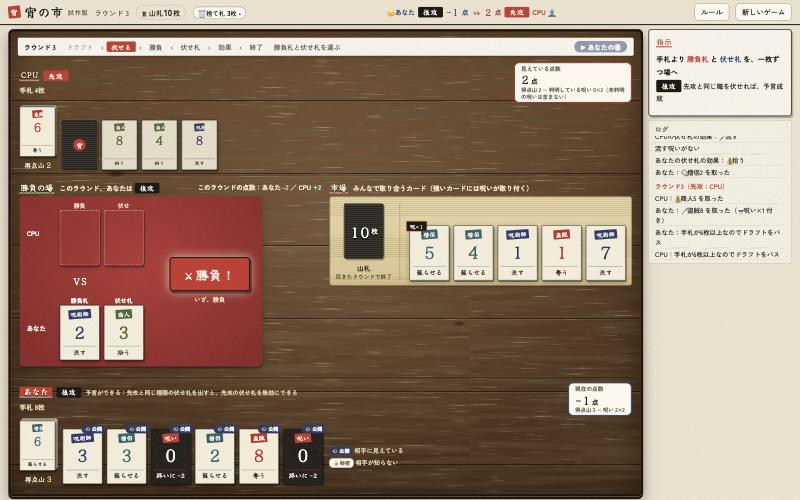
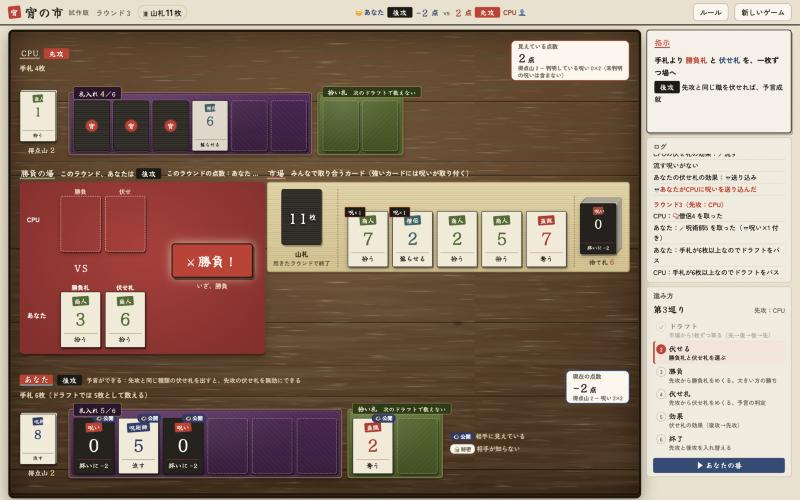
呪い市を更新（1stDCG 515f486）

diff --git a/index.html b/index.html
@@ -1178,22 +1178,24 @@ details.fold .quick-title, details.fold .rl-h3 { display: none; }
 <template id="screenGuide">
   <div class="screen-guide">
     <div class="sg-shots">
-      <figure class="sg-shot"><div class="sg-img"><img src="guide-pc.jpg" alt="PCで遊んでいるときの画面" loading="lazy"><span class="sg-mark" style="left:11.5%;top:0.5%">1</span><span class="sg-mark" style="left:48%;top:0.5%">2</span><span class="sg-mark" style="left:2.5%;top:7.5%">3</span><span class="sg-mark" style="left:2.5%;top:12%">4</span><span class="sg-mark" style="left:41%;top:36.5%">5</span><span class="sg-mark" style="left:2.5%;top:39.5%">6</span><span class="sg-mark" style="left:20.5%;top:50%">7</span><span class="sg-mark" style="left:2.5%;top:76%">8</span><span class="sg-mark" style="left:2.5%;top:83.5%">12</span><span class="sg-mark" style="left:81%;top:6%">9</span><span class="sg-mark" style="left:81%;top:24%">10</span><span class="sg-mark" style="left:86.5%;top:0.5%">11</span></div><figcaption>PC の画面</figcaption></figure>
-      <figure class="sg-shot sp"><div class="sg-img"><img src="guide-sp.jpg" alt="スマホで遊んでいるときの画面" loading="lazy"><span class="sg-mark" style="left:9%;top:0.5%">1</span><span class="sg-mark" style="left:38.5%;top:0.5%">2</span><span class="sg-mark" style="left:63%;top:0.5%">10</span><span class="sg-mark" style="left:74%;top:0.5%">11</span><span class="sg-mark" style="left:3.5%;top:6%">3</span><span class="sg-mark" style="left:3.5%;top:10.5%">4</span><span class="sg-mark" style="left:47%;top:27.5%">5</span><span class="sg-mark" style="left:4.5%;top:31%">6</span><span class="sg-mark" style="left:7%;top:62%">7</span><span class="sg-mark" style="left:2%;top:75.5%">8</span><span class="sg-mark" style="left:4.5%;top:81.5%">12</span><span class="sg-mark" style="left:1%;top:92.5%">9</span></div><figcaption>スマホの画面</figcaption></figure>
+      <figure class="sg-shot"><div class="sg-img"><img src="guide-pc.jpg" alt="PCで遊んでいるときの画面" loading="lazy"><span class="sg-mark" style="left:11.5%;top:0.5%">1</span><span class="sg-mark" style="left:44%;top:0.5%">2</span><span class="sg-mark" style="left:86.5%;top:0.5%">11</span><span class="sg-mark" style="left:2.2%;top:7.5%">4</span><span class="sg-mark" style="left:33%;top:33%">5</span><span class="sg-mark" style="left:71.5%;top:39%">13</span><span class="sg-mark" style="left:2.5%;top:36.5%">6</span><span class="sg-mark" style="left:21%;top:47%">7</span><span class="sg-mark" style="left:2.2%;top:80.5%">12</span><span class="sg-mark" style="left:8.6%;top:81.5%">8</span><span class="sg-mark" style="left:43.4%;top:81.5%">14</span><span class="sg-mark" style="left:81%;top:6%">9</span><span class="sg-mark" style="left:81%;top:27.5%">10</span><span class="sg-mark" style="left:81%;top:57.5%">3</span></div><figcaption>PC の画面</figcaption></figure>
+      <figure class="sg-shot sp"><div class="sg-img"><img src="guide-sp.jpg" alt="スマホで遊んでいるときの画面" loading="lazy"><span class="sg-mark" style="left:9%;top:0.5%">1</span><span class="sg-mark" style="left:32.5%;top:0.5%">2</span><span class="sg-mark" style="left:63%;top:0.5%">10</span><span class="sg-mark" style="left:73%;top:0.5%">11</span><span class="sg-mark" style="left:3.5%;top:6.8%">3</span><span class="sg-mark" style="left:3.5%;top:11%">4</span><span class="sg-mark" style="left:46.7%;top:29.6%">5</span><span class="sg-mark" style="left:49%;top:56%">13</span><span class="sg-mark" style="left:4.8%;top:33.4%">6</span><span class="sg-mark" style="left:7%;top:64.4%">7</span><span class="sg-mark" style="left:4.5%;top:79.6%">12</span><span class="sg-mark" style="left:20.8%;top:76.8%">8</span><span class="sg-mark" style="left:1%;top:92%">9</span></div><figcaption>スマホの画面</figcaption></figure>
     </div>
     <ol class="sg-list">
-      <li><b>ラウンド・山札・捨て札</b>：今のラウンドと山札の残り（山札が尽きたラウンドで終わり）。捨て札は押すと中身が見られる</li>
+      <li><b>ラウンド・山札</b>：今のラウンドと山札の残り（山札が尽きたラウンドで終わり）</li>
       <li><b>点数</b>：あなたと相手の点数（相手は、見えている分だけで計算）</li>
-      <li><b>場面の表示</b>：今の場面（ドラフト → 伏せる → 勝負 → 伏せ札 → 効果）と、だれの番か</li>
-      <li><b>相手</b>：相手の手札（裏向きの札と、相手に知られている札）</li>
-      <li><b>市場</b>：2人で取り合う札。💀が付いた札は、呪いごと取る</li>
+      <li><b>場面の表示</b>：今の場面と、だれの番か（PC は右下の「進み方」、スマホは上の帯）</li>
+      <li><b>相手</b>：相手の得点山と札入れ（裏向きの札と、相手に知られている札）</li>
+      <li><b>市場</b>：2人で取り合う札。「呪×1」が付いた札は、呪いごと取る</li>
       <li><b>勝負の場</b>：勝負札と伏せ札を出して勝負する。勝ったら「勝」、負けたら「負」の判子が押される</li>
       <li><b>ボタン置き場</b>：「⚔ 勝負！」「勝負札をめくる」など、押すボタンはここに出る</li>
-      <li><b>あなたの手札</b>：押すと勝負の場に置ける。👁公開＝相手に見えている、🔒秘密＝相手は知らない</li>
+      <li><b>札入れ（あなたの手札）</b>：6枚まで。6枚埋まると、次のドラフトは休み。札を押すと勝負の場に置ける。👁公開＝相手に見えている、🔒秘密＝相手は知らない</li>
       <li><b>指示ナビ</b>：今やることの説明（PC は右上、スマホは画面の下）</li>
       <li><b>ログ</b>：これまでに起きたこと（スマホは 📜 ボタンで開く）</li>
       <li><b>ルール</b>：遊んでいる途中でも、ここからルールを確かめられる</li>
-      <li><b>得点山</b>：勝った札が重なって貯まる山。押すと中身が見られる（相手の得点山は、相手の手札の横）</li>
+      <li><b>得点山</b>：勝った札が重なって貯まる山。押すと中身が見られる</li>
+      <li><b>捨て札</b>：市場の端。一番上が最後に捨てられた札。押すと中身が見られる</li>
+      <li><b>拾い札</b>：「拾う」「蘇らせる」で手に入れた札の敷物。次のドラフトでは手札の枚数に数えない（スマホは札入れの右。横にずらすと見える）</li>
     </ol>
   </div>
 </template>
